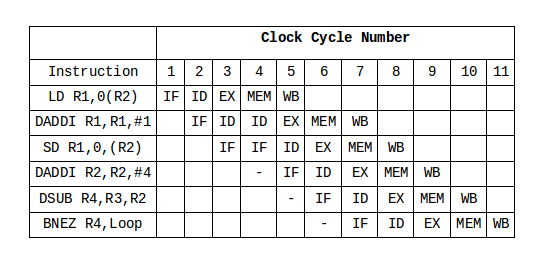
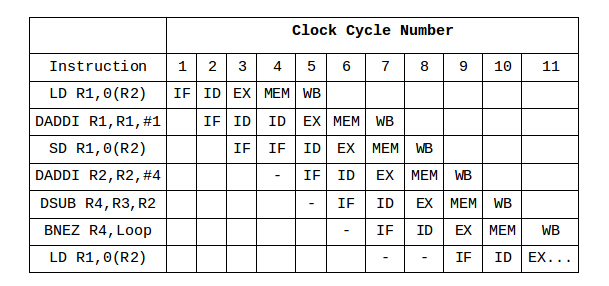
Problem 3d completed

Changed region(s): [[0.031, 0.0303, 0.9599, 0.9697]]

diff --git a/Problem-Set-1.md b/Problem-Set-1.md
@@ -32,6 +32,8 @@ We decide for the second design, assuming the same number of instructions for a 
 
 > (Page	C-82	in	H&P5,	Problem	C.1	a,b,c,d,e,f,g) Use the following code fragment:
 
+There is a error on the "store" instruction. Instead of `SD R1,0,(R2)`, it is `SD R1,0(R2)`, since we deal with a I-type instruction.
+
 ![C-82-P1](https://github.com/MarcioJales/Coursera-ELE475/blob/master/c82-1.jpg)
 
 Figure C-5:
@@ -65,7 +67,11 @@ Figure C-6:
 
 > Show the timing of this instruction sequence for the 5-stage RISC pipeline without any forwarding or bypassing hardware but assuming that a register read and a write in the same clock cycle “forwards” through the register file, as shown in Figure C.6. Use a pipeline timing chart like that in Figure C.5. Assume that the branch is handled by flushing the pipeline. If all memory references take 1 cycle, how many cycles does this loop take to execute?
 
-Every decode stage may proceed only when the proper write-back on which it depends has been performed. It important to notice the structural hazard as well. The loop takes 18 cycles to execute:
+We assume that the loop will continue when reach the end for this case and letters "c" and "d".
+
+Every decode stage may proceed only when the proper write-back on which it depends has been performed. It important to notice the structural hazard as well. Since we simply flush the pipeline to solve the branch, The `LD` for the next iteration will stall until the `ID` stage of `BNEZ`, where finally the processor finds out where to go (considering the MIPS microarchitecture).
+
+The loop takes 18 cycles to execute:
 
 ![Problem-3b](https://github.com/MarcioJales/Coursera-ELE475/blob/master/problem-3b.png)
 
@@ -73,6 +79,16 @@ Every decode stage may proceed only when the proper write-back on which it depen
 
 > Show the timing of this instruction sequence for the 5-stage RISC pipeline with full forwarding and bypassing hardware. Use a pipeline timing chart like that shown in Figure C.5. Assume that the branch is handled by predicting it as not taken. If all memory references take 1 cycle, how many cycles does this loop take to execute?
 
+For this case, we also have some structural hazards. Now, dependencies on I-type mat proceed after its `MEM` stage. For instance, the second `DADDI` executes only when `LD` reads the memory to set `R1`. Also, dependencies on R-type instructions may proceed after its `EX` stage.
+
+We predict that branch is not taken. The next fetched instruction (omitted from the chart) will be flushed and the `LD` will be placed after we decode the `BNEZ` command.
+
 The loop takes 11 cycles to execute:
 
 ![Problem-3c](https://github.com/MarcioJales/Coursera-ELE475/blob/master/problem-3c.png)
+
+### d)
+
+Almost the same case as "c", but the "taken" prediction does the `LD` to be the next instruction in the pipeline.
+
+![Problem-3d](https://github.com/MarcioJales/Coursera-ELE475/blob/master/problem-3d.png)
